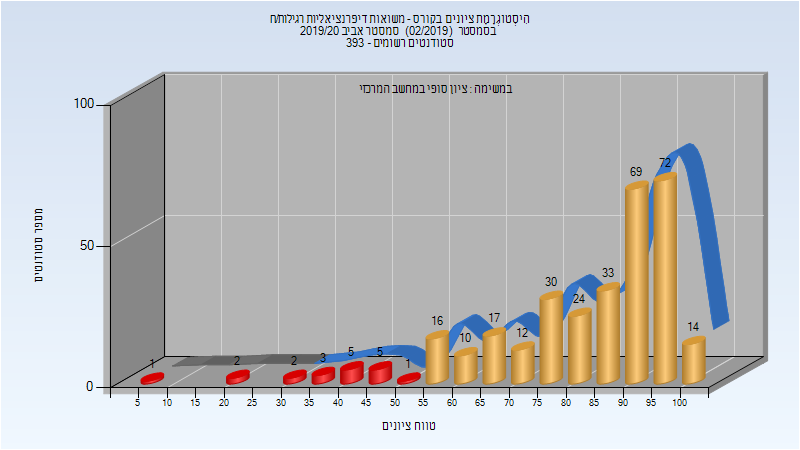
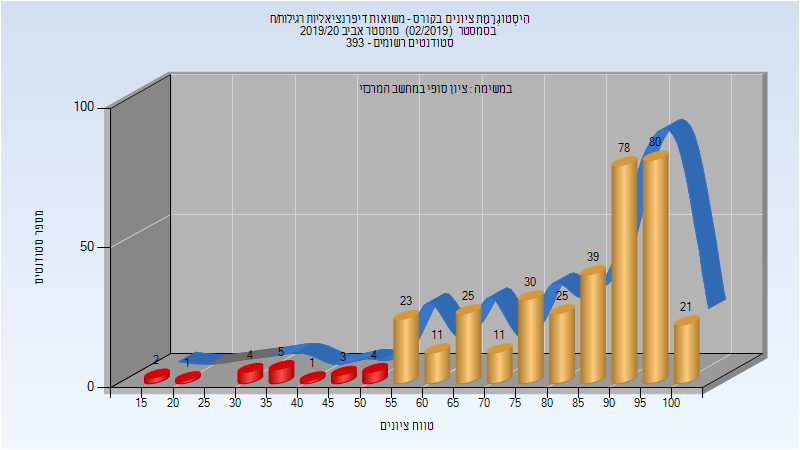
Deploy michael-maltsev/technion-histograms to github.com/michael-maltsev/technion-histograms.git:gh-pages

diff --git a/104131/index.html b/104131/index.html
@@ -2514,12 +2514,12 @@
 </thead>
 <tbody>
 <tr>
-<td>316</td>
-<td>297/19</td>
+<td>363</td>
+<td>343/20</td>
 <td>94</td>
-<td>8</td>
+<td>19</td>
 <td>100</td>
-<td>82.025</td>
+<td>81.818</td>
 <td>87</td>
 </tr>
 </tbody>

diff --git a/104131/README.md b/104131/README.md
@@ -791,5 +791,5 @@
 
 | סטודנטים | עברו/נכשלו | אחוז עוברים | ציון מינימלי | ציון מקסימלי | ממוצע | חציון |
 | ---- | ---- | ---- | ---- | ---- | ---- | ---- |
-| 316 | 297/19 | 94 | 8 | 100 | 82.025 | 87 |
+| 363 | 343/20 | 94 | 19 | 100 | 81.818 | 87 |
 
